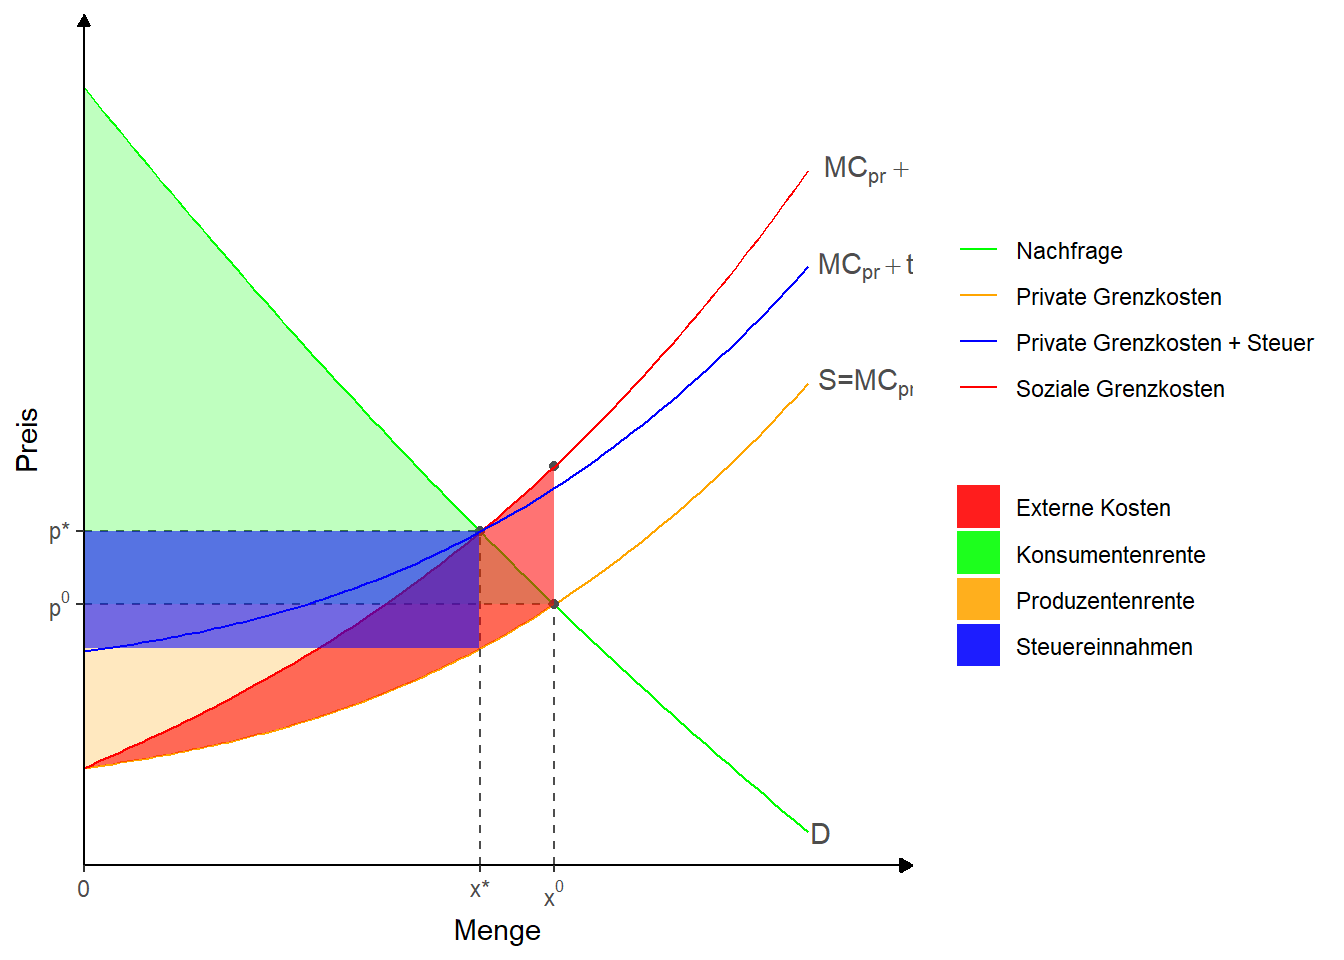
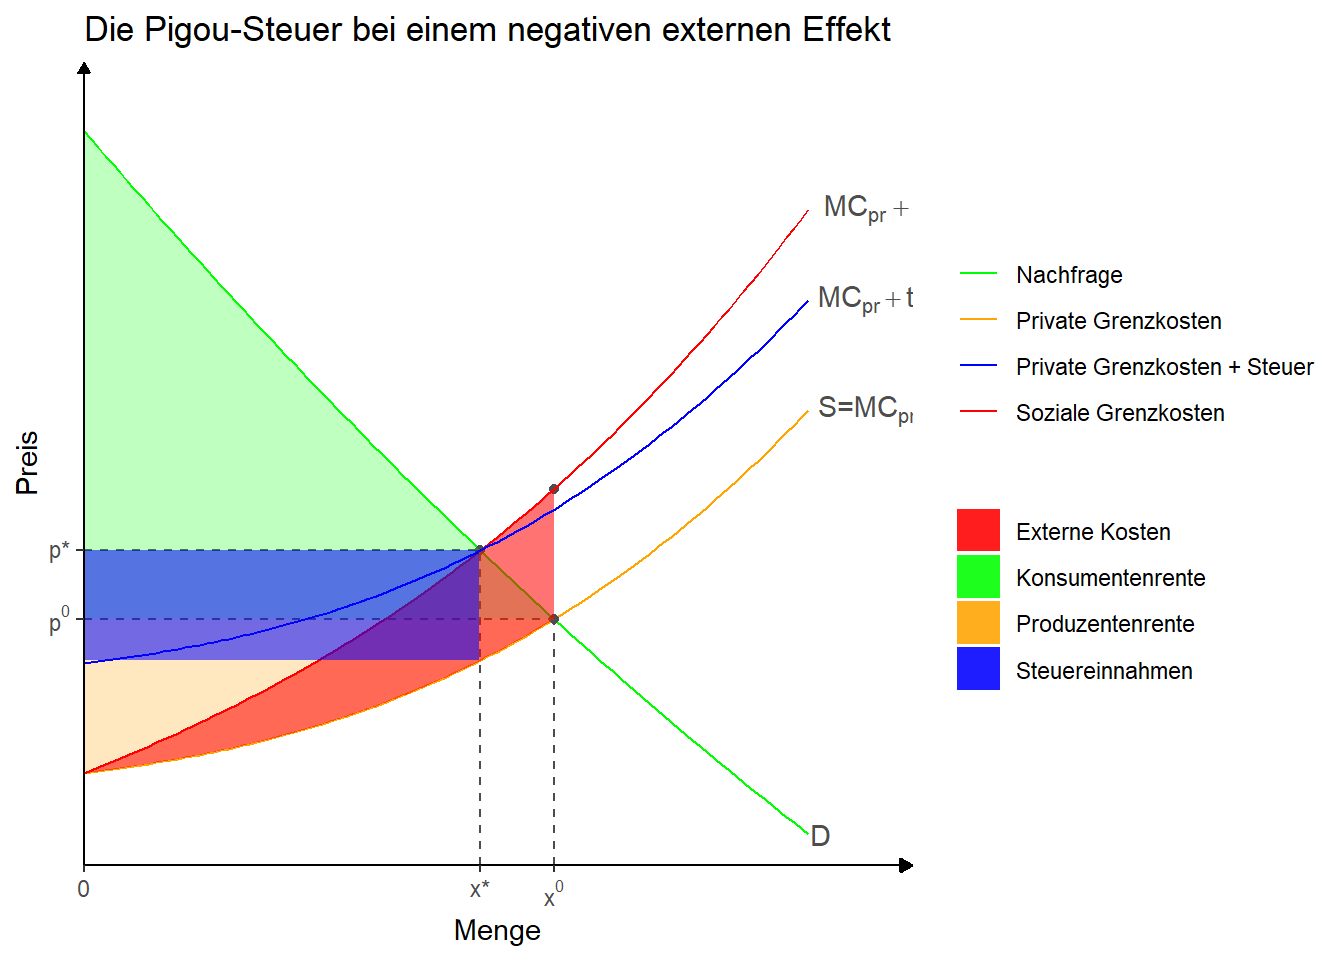
Ergänzung Marktversagen

diff --git a/marktversagen-als-hindernis-für-eine-nachhaltige-entwicklung.html b/marktversagen-als-hindernis-für-eine-nachhaltige-entwicklung.html
@@ -142,6 +142,19 @@
 <div id="externe-effekte" class="section level3 hasAnchor" number="3.1.1">
 <h3><span class="header-section-number">3.1.1</span> Externe Effekte<a href="marktversagen-als-hindernis-für-eine-nachhaltige-entwicklung.html#externe-effekte" class="anchor-section" aria-label="Anchor link to header"></a></h3>
 <p><span class="math inline">\(\rightarrow\)</span> Umweltökonomik</p>
+<p>Hier: Kurzfassung</p>
+<ul>
+<li><p>Allokativ relevante externe Effekte liegen vor, wenn durch Markttransaktionen Kosten- oder Nutzenwirkungen bei unbeteiligten Dritten entstehen, die sich nicht (hinreichend) handlungsleitend in Marktpreisen widerspiegeln.</p></li>
+<li><p>Wenn bestimmte Kostenwirkungen unberücksichtigt bleiben, dann wird im Gleichgewicht zu viel von einem Gut angeboten und nachgefragt.</p></li>
+<li><p>Mögliche Reaktionen des Staates (bei negativen externen Effekten)</p>
+<ul>
+<li><p>Ge- und Verbote</p></li>
+<li><p>Die Pigou-Steuer</p></li>
+<li><p>Umweltzertifikate</p></li>
+<li><p>Förderung von Substitutionsgütern und -technologien</p></li>
+<li><p><span class="math inline">\(\dots\)</span></p></li>
+</ul></li>
+</ul>
 <p><img src="Wirtschaftspolitik_files/figure-html/unnamed-chunk-3-1.png" width="672" /></p>
 </div>
 <div id="natürliche-monopole" class="section level3 hasAnchor" number="3.1.2">
@@ -166,6 +179,20 @@
 </div>
 <div id="unvollständige-märkte" class="section level3 hasAnchor" number="3.1.5">
 <h3><span class="header-section-number">3.1.5</span> Unvollständige Märkte<a href="marktversagen-als-hindernis-für-eine-nachhaltige-entwicklung.html#unvollständige-märkte" class="anchor-section" aria-label="Anchor link to header"></a></h3>
+<ul>
+<li><p>Nicht alle Risiken sind versicherbar</p>
+<ul>
+<li><p>Schadensereignisse mit sehr geringer Eintrittswahrscheinlichkeit aber sehr hohem Schaden</p></li>
+<li><p>Risiken in einem Umfeld, das durch Markthandlungen erst noch geformt wird (Unternehmensstrategien)</p></li>
+</ul></li>
+<li><p>Risiken, bei denen nicht unterscheidbar ist, inwieweit sie endogen oder exogen sind (Arbeitslosenversicherung)</p></li>
+<li><p>Für Absicherungen gegen diese Risiken gibt es keine (oder eben nur unvollständige) Märkte</p></li>
+<li><p>Lösungen:</p>
+<ul>
+<li><p>Staatliche Absicherung</p></li>
+<li><p>Private Absicherung durch Eigenkapital</p></li>
+</ul></li>
+</ul>
 </div>
 </div>
 <div id="anwendungsfälle" class="section level2 hasAnchor" number="3.2">
